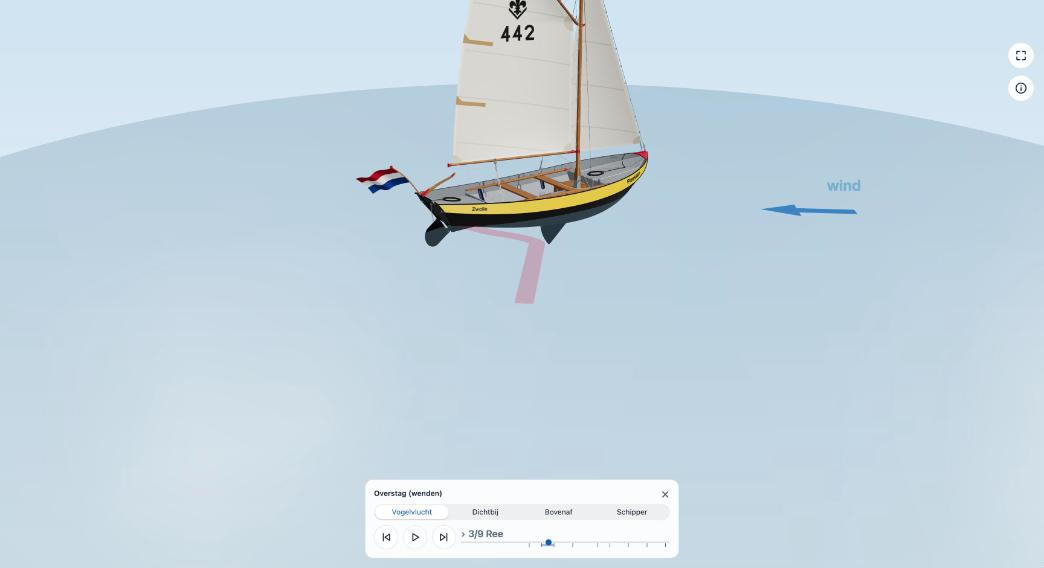
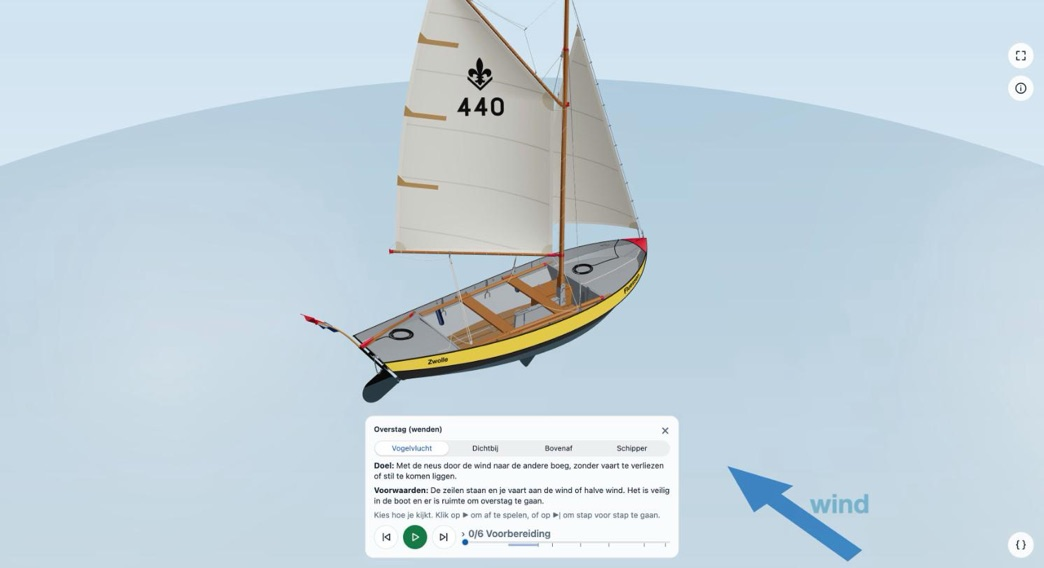
Handleiding: stap 0 in the Bekijken screenshot, where the steps come from, and other names in Zoeken

diff --git a/web/demo/handleiding/manoeuvres.html b/web/demo/handleiding/manoeuvres.html
@@ -48,9 +48,12 @@
 </ul>
 <p>Kan een manoeuvre nu niet, dan is hij grijs en staat eronder waarom, bijvoorbeeld <i>Eerst ruime of voor de
   wind gaan varen</i>. Een vinkje betekent dat je hem al eens foutloos hebt geoefend.</p>
+<p>De stappen volgen de Kielboot-lesboeken van Scouting Sint Maarten. Waar die niets over een manoeuvre zeggen,
+  volgen ze het CWO-zeilinstructieboek van de Katwijkse Zeeverkenners, en bij roeien CWO Roeien van Scouting
+  Nederland.</p>
 
 <h2>Bekijken</h2>
-<a href="../img/handleiding/manoeuvre-bekijken.jpg" title="Groter bekijken"><img class="shot" src="../img/handleiding/manoeuvre-bekijken.jpg" alt="Overstag bekijken, met de kaart en de stappenbalk" width="1044" height="568"></a>
+<a href="../img/handleiding/manoeuvre-bekijken.jpg" title="Groter bekijken"><img class="shot" src="../img/handleiding/manoeuvre-bekijken.jpg" alt="Overstag bekijken bij stap 0: het doel, de voorwaarden en de groene afspeelknop" width="1044" height="568"></a>
 <p>Met <b>Bekijken</b> begint de manoeuvre bij stap 0: de kaart toont het doel en de voorwaarden, en je kiest
   hoe je kijkt. Druk op de groene afspeelknop en ze gaat stap voor stap, met na elke stap even tijd om te lezen;
   of klik zelf stap voor stap door. De commando's staan in tekstballonnen en het spoor van de
@@ -85,6 +88,8 @@
 <h2>Alle stappen op een rij</h2>
 <p>Voor elke manoeuvre staan de voorwaarden en de stappen, met waar ze vandaan komen, in het
   <a href="https://github.com/wiebren/lelievlet/blob/main/docs/manoeuvres.md">overzicht van de manoeuvres</a>.
+  Waarom je elke stap doet, staat per manoeuvre in
+  <a href="https://github.com/wiebren/lelievlet/blob/main/web/src/stapuitleg.js">de uitleg per stap</a>.
   Klopt er iets niet met hoe jullie het leren? Laat het weten via Melden.</p>
 
 <div class="next"><a href="boot.html">‹ Zeilen en roeien</a><a href="quiz.html">Onderdelen oefenen ›</a></div>

diff --git a/web/demo/handleiding/onderdelen.html b/web/demo/handleiding/onderdelen.html
@@ -45,7 +45,8 @@
 <p>Het vergrootglas rechtsonder opent <i>Zoeken</i>. De tegel <i>Onderdelen</i> opent alle onderdelen per groep.
   Typ in het zoekveld om te filteren en klik op een naam: de camera vliegt erheen. Je kunt ook meteen in het
   zoekveld bovenaan typen; dat zoekt in alles, en een onderdeel dat je daar kiest, opent de lijst met dat
-  onderdeel gekozen. Met <b>‹</b> linksboven ga je terug. Elke groep heeft een oogje waarmee je de hele groep
+  onderdeel gekozen. Je vindt een onderdeel ook op een andere naam, zoals <i>dirk</i> voor de kraanlijn of
+  <i>mastring</i> voor de hommerring. Met <b>‹</b> linksboven ga je terug. Elke groep heeft een oogje waarmee je de hele groep
   verbergt of weer laat zien, zodat je bijvoorbeeld zonder zeilen in de kuip kunt kijken.
   <i>Alles tonen</i> en <i>Alles verbergen</i> doen dat voor alle groepen tegelijk.</p>
 

diff --git a/web/demo/handleiding/aanpassen.html b/web/demo/handleiding/aanpassen.html
@@ -101,6 +101,8 @@
   <li><b>Over dit model</b>: waar het model vandaan komt, de bronnen en de broncode.</li>
   <li><b>Homepagina</b> ↗: de homepagina van het project.</li>
 </ul>
+<p class="note">Updates en Over dit model kun je ook openen tijdens een manoeuvre of een quizronde; die blijft
+  staan waar hij was.</p>
 
 <div class="next"><a href="verkeerstekens.html">‹ Verkeerstekens</a><span></span></div>
     </div>
